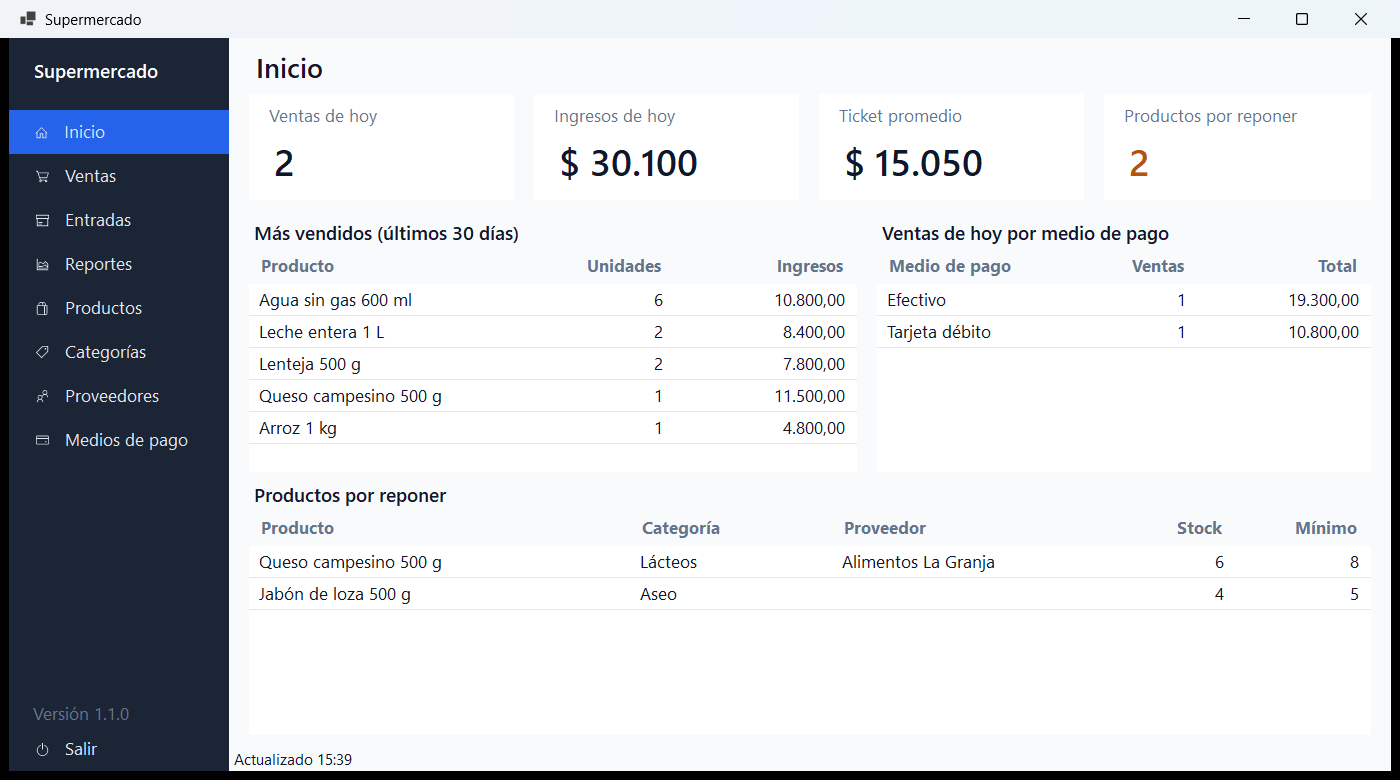
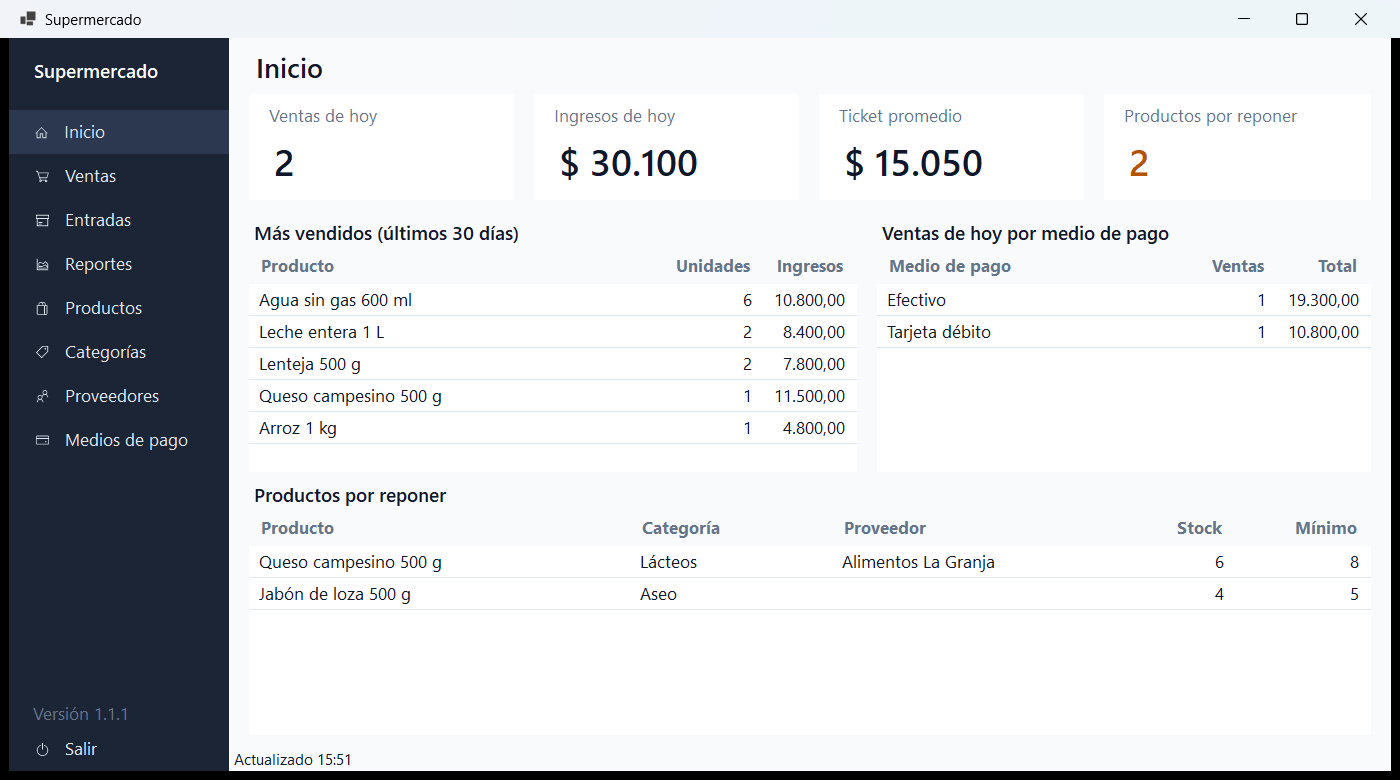
docs: new screenshots, acknowledgements and 1.1.1 changelog
- Screenshots of the home, sales, reports and product editor screens,
  taken from the running 1.1.1 build. The outdated product list image
  is removed.
- Acknowledgements to professor Luis Yovany Romo Portilla.
- Version 1.1.1 and its changelog entry.

Changed region(s): [[0.0, 0.1231, 0.1843, 0.2154], [0.7986, 0.3385, 0.9214, 0.3692], [0.43, 0.3385, 0.5529, 0.3692]]

diff --git a/README.md b/README.md
@@ -29,9 +29,13 @@ Construida con **.NET 10**, **Windows Forms** y **SQL Server**, siguiendo el pat
 - Base de datos creada y migrada automáticamente al iniciar, con datos de ejemplo opcionales.
 - Atajos de teclado: `Ctrl+N` nuevo, `Ctrl+F` buscar, `Enter` editar, `Supr` eliminar, `Esc` cancelar. En ventas, `Enter` en la cantidad agrega el producto, `F9` registra la venta y el doble clic en el historial abre el recibo.
 
-![Listado de productos](docs/products.png)
+### Capturas
 
-![Edición de un producto](docs/product-editor.png)
+| Ventas | Reportes |
+| --- | --- |
+| ![Pantalla de ventas con el detalle de una venta](docs/sales.png) | ![Reporte de ventas del mes](docs/reports.png) |
+
+![Edición de un producto con categoría, proveedor y stock mínimo](docs/product-editor.png)
 
 ## Arquitectura
 
@@ -206,3 +210,7 @@ Las pruebas de integración usan [Testcontainers](https://dotnet.testcontainers.
 ## Origen
 
 El proyecto nació como un parcial universitario de la materia de Lenguajes de Programación: un CRUD en un solo proyecto WinForms sobre .NET 7. Después se reestructuró por completo con la arquitectura, las pruebas y las prácticas descritas arriba.
+
+## Agradecimientos
+
+Agradezco al profesor **Luis Yovany Romo Portilla**, quien me dio la oportunidad de desarrollar este proyecto en C#. Su enseñanza aportó de manera muy positiva a que hoy sea el desarrollador de software que soy.

diff --git a/CHANGELOG.md b/CHANGELOG.md
@@ -4,6 +4,13 @@ Todos los cambios relevantes del proyecto se documentan en este archivo.
 
 El formato sigue [Keep a Changelog](https://keepachangelog.com/es-ES/1.1.0/) y el proyecto usa [versionado semántico](https://semver.org/lang/es/).
 
+## [1.1.1] - 2026-10-23
+
+### Corregido
+
+- Columnas que se cortaban con la fuente real de Windows: fecha, estado y total en el historial de ventas; artículos, estado y medio de pago en Reportes; unidades e ingresos en los más vendidos. Las columnas de contenido corto (número, fecha, estado, cantidades e importes) ahora se ajustan a su contenido y el texto ocupa el espacio restante.
+- El texto de ayuda de las observaciones en Entradas de mercancía no cabía en el campo.
+
 ## [1.1.0] - 2026-10-23
 
 ### Agregado
@@ -35,5 +42,6 @@ Primera versión publicada. Reemplaza por completo el proyecto universitario ori
 - 159 pruebas: unitarias, de renderizado de pantallas e integración contra SQL Server 2022 con Testcontainers.
 - `build.ps1` para verificar en local (formato, build, pruebas y cobertura) y `publish.ps1` para generar el paquete.
 
+[1.1.1]: https://github.com/zemogc/Trabajo-Li-z/compare/v1.1.0...v1.1.1
 [1.1.0]: https://github.com/zemogc/Trabajo-Li-z/compare/v1.0.0...v1.1.0
 [1.0.0]: https://github.com/zemogc/Trabajo-Li-z/releases/tag/v1.0.0
